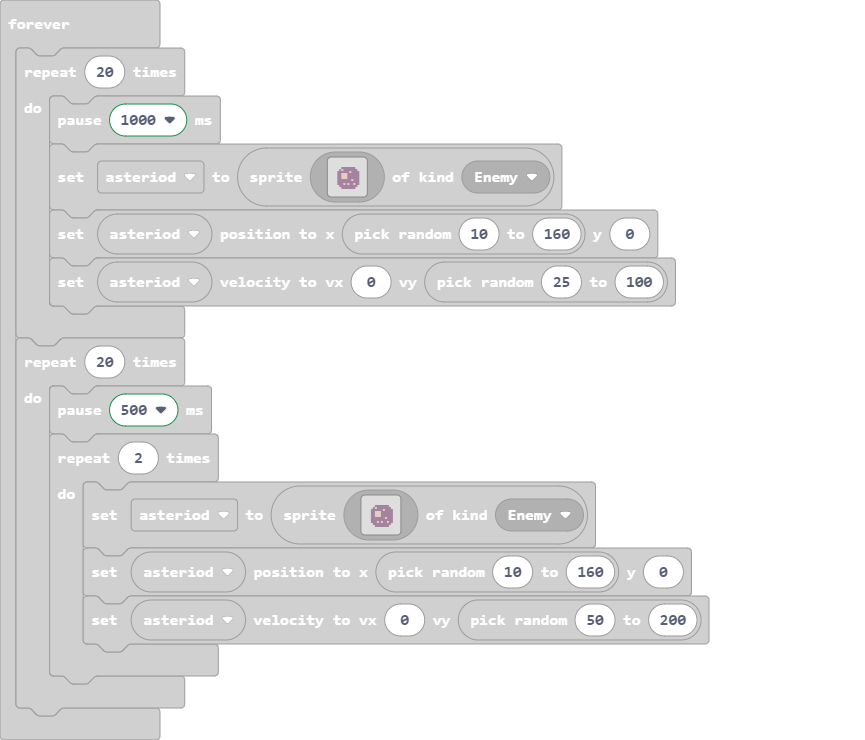
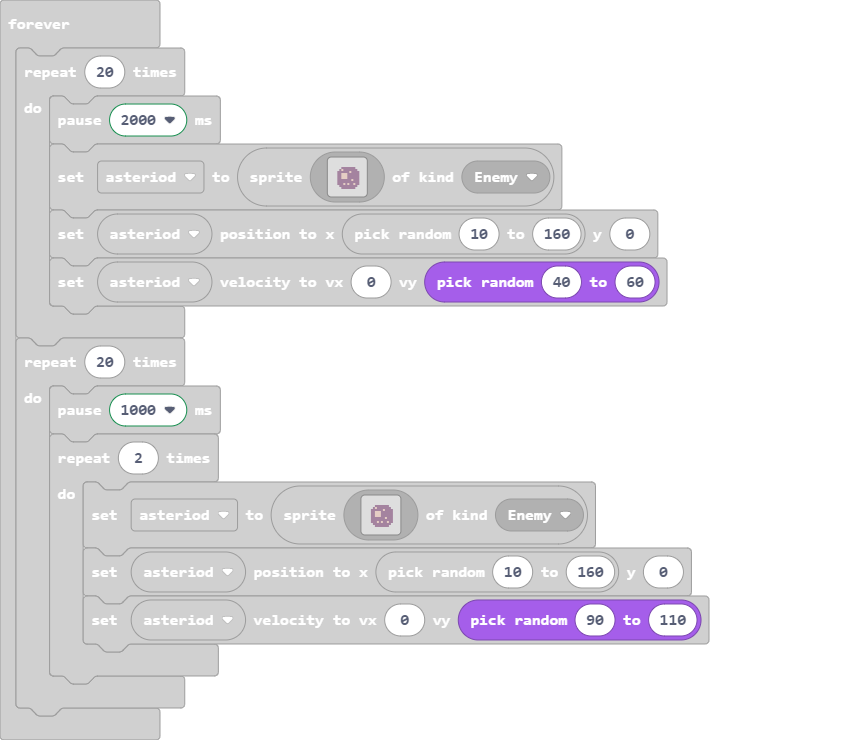
Update main.blocks, main.ts

Changed region(s): [[0.4682, 0.3419, 0.7803, 0.4351], [0.5306, 0.8081, 0.8116, 0.8703], [0.1561, 0.5284, 0.2809, 0.5905]]

diff --git a/main.ts b/main.ts
@@ -161,17 +161,17 @@ scene.setBackgroundImage(img`
     `)
 forever(function () {
     for (let index = 0; index < 20; index++) {
-        pause(1000)
+        pause(2000)
         asteriod = sprites.create(assets.image`asteriod`, SpriteKind.Enemy)
         asteriod.setPosition(randint(10, 160), 0)
-        asteriod.setVelocity(0, randint(25, 100))
+        asteriod.setVelocity(0, randint(40, 60))
     }
     for (let index = 0; index < 20; index++) {
-        pause(500)
+        pause(1000)
         for (let index = 0; index < 2; index++) {
             asteriod = sprites.create(assets.image`asteriod`, SpriteKind.Enemy)
             asteriod.setPosition(randint(10, 160), 0)
-            asteriod.setVelocity(0, randint(50, 200))
+            asteriod.setVelocity(0, randint(90, 110))
         }
     }
 })
